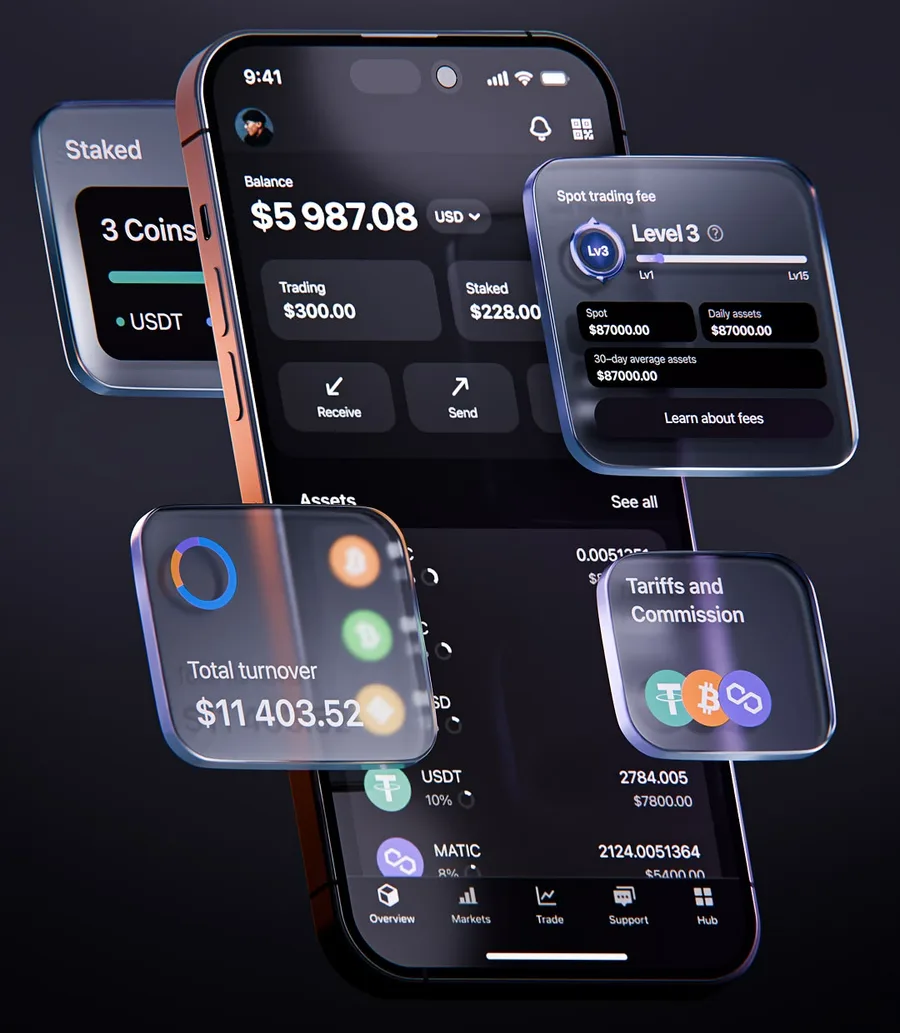
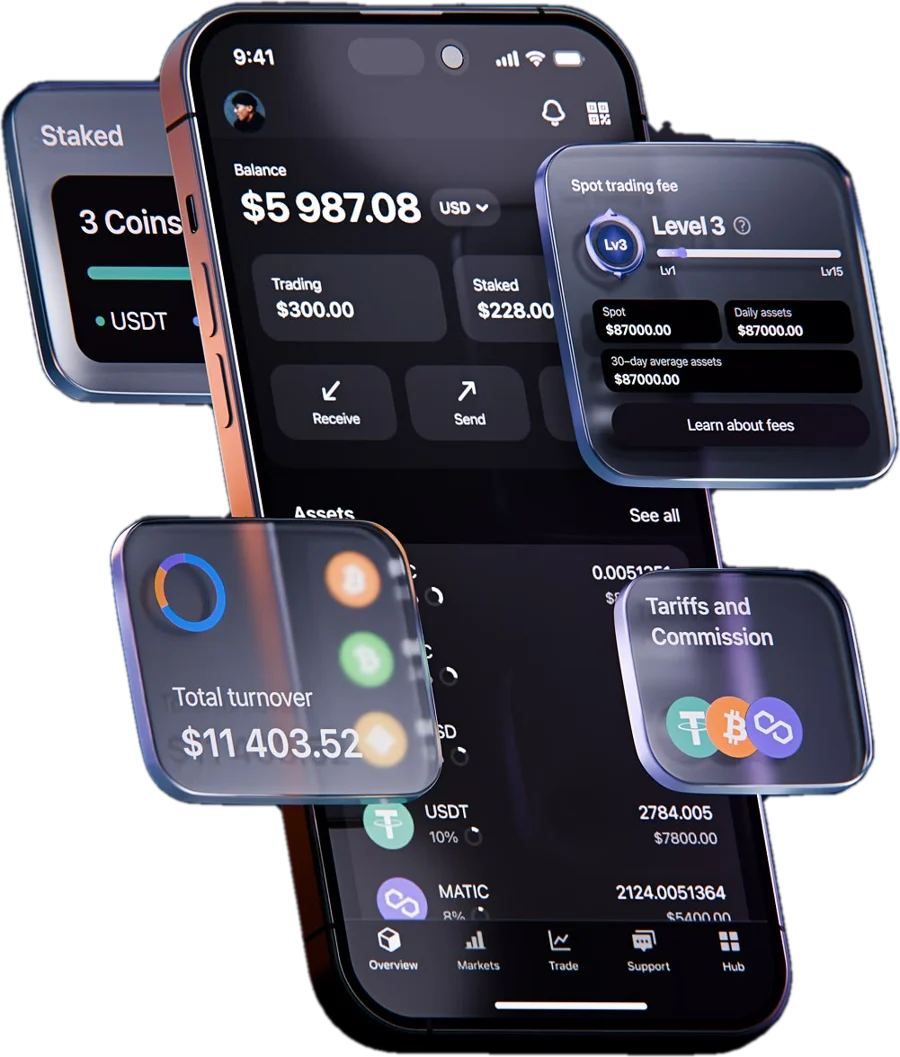
Apps: imagem sem fundo na altura do texto e carrossel do portfólio; sem perguntas frequentes no site

diff --git a/CLAUDE.md b/CLAUDE.md
@@ -26,6 +26,7 @@ Objetivo do site: gerar contatos pelo WhatsApp e pelo formulário.
 - Seção 2 da home (após o carrossel de logos): src/components/SecaoConexao.astro — texto à esquerda no estilo do hero ("Seu negócio, / site e redes / conectados"); à direita ilustração em código: caixa 3D (site em cima, acervo do negócio embaixo: lista, documentos, fotos, gráfico) ligada por linhas de luz animadas a cartões de vidro 3D das redes (Instagram, WhatsApp, Google)
 - Faixa "Invisível não vende." (após a seção 2): src/components/FaixaInvisivel.astro — largura total, laranja escuro, faixa baixa (padding 40px), duas colunas: título + subtítulo; à direita composição de presença local (inspirada em referência, sem copiar): perfil no Google, 2 avaliações de clientes, cartão do site e celular 3D com o perfil e a distribuição das notas. Dados e nomes fictícios
 - Sem linhas/bordas entre seções
+- Sem seção de perguntas frequentes (FAQ) em nenhuma página, pedido do cliente
 - Seção "Por que a MKT Center": src/components/PorQue.astro — título no padrão do site (eyebrow + h2), 6 cards menores numa linha só (3 por linha no tablet, 1 no celular): objeto 3D real em WebGL (Three.js, src/scripts/objetos3d.ts, carregado só quando a seção chega perto da tela): alvo, celular, chat, lupa, gráfico, cavalo de xadrez em metal escuro com detalhes laranja acesos, girando e seguindo o mouse com ondas de luz laranja, número, título, descrição e link
 - Seção "Nossos preços" (após Por que a MKT): src/components/Precos.astro — carrossel numa linha (4 visíveis no computador, 2 no tablet, 1 no celular) com setas e rolagem lateral; 7 cards com selo, "A partir de" + preço, descrição, itens e botão "Falar sobre este plano" (WhatsApp); embaixo "Falar sobre meu projeto" e "Enviar briefing". Valores REAIS informados pelo cliente: Landing R$ 300, Institucional (até 4 págs) R$ 600, Profissional R$ 1.000, Redes R$ 400/mês, Vídeo R$ 50, Post R$ 30/card, Sistemas/Apps sob consulta
 - Depoimentos: src/components/Depoimentos.astro — carrossel minimalista (3 visíveis, setas, arraste), 8 depoimentos FICTÍCIOS (trocar por reais)
@@ -33,8 +34,8 @@ Objetivo do site: gerar contatos pelo WhatsApp e pelo formulário.
 - Página Quem somos: usa o MESMO hero da home (HeroCrescimento.astro com props rotulo/linhas/destaque/texto/bt1/bt2/numeros/rolarPara) com os textos da história desde 2013; o lado direito usa o slot "visual" com src/components/SanfonaEpocas.astro: sanfona de 5 painéis (2013 Lojas, 2016 Redes, 2018 Sites, 2020 Lives, 2026 Apps/IA), abre no hover/toque e avança sozinha; painel aberto mostra a tela animada da época (TelaEra.astro)
 - Página Vídeos (src/pages/videos.astro): hero com EditorVideo.astro (editor em código: prévia 9:16 com cortes, zoom, legendas palavra a palavra, painel de cor e linha do tempo com playhead, tudo em CSS num ciclo de 12 s), tipos (edição R$ 50/vídeo real; anúncios e institucional sob consulta), antes e depois arrastável, 6 técnicas com prévia animada, seção Transmissão ao vivo (#ao-vivo: missas, cultos e eventos; mesa de corte em código com 4 câmeras, AO VIVO, letreiro, chat e redes), incluso, processo e depoimentos
 - Página Redes (src/pages/redes-sociais.astro, menu Redes aponta para ela; /trafego-e-seo/ continua existindo): hero com carrossel dentro de uma moldura branca real de post do Instagram (perfil mktcenterdigital, botão Seguir, curtidas, legenda e hashtags; alinhada à borda direita do .wrap; 5 imagens escolhidas pelo cliente em public/mock/redes-perfil*.webp, setas, arraste, pontos, troca sozinha a cada 4 s; perfis de terceiros: confirmar direito de uso antes do lançamento; PainelRedes.astro, a central animada, fica guardado sem uso), 4 planos com preços reais (R$ 400/mês, R$ 30/card, R$ 50/vídeo, anúncios sob consulta), antes e depois do perfil arrastável, 6 entregas com prévia animada, incluso, processo e depoimentos
-- Página Política (src/pages/marketing-politico.astro): hero com os 4 aparelhos mostrando os sites reais de campanha (Roberto Pires e Padre Kelmon), fases pré-campanha/campanha/mandato (sob consulta), o que fazemos, dentro da lei (TSE, LGPD), campanhas do portfólio (projetos tipo 'Marketing político'), processo e FAQ
-- Página Apps (src/pages/aplicativos-e-sistemas.astro, link Apps no menu depois de Lojas): hero com imagem de estilo escolhida pelo cliente (public/mock/apps-hero.webp, celular com cartões de vidro, bordas esfumadas no fundo), grade dos projetos com tipo Aplicativo/Sistema, o que podemos criar, valor sob consulta, processo e FAQ. Print do Sistema RollerPort veio de imagem do cliente (tem login), fora do robô
+- Página Política (src/pages/marketing-politico.astro): hero com os 4 aparelhos mostrando os sites reais de campanha (Roberto Pires e Padre Kelmon), fases pré-campanha/campanha/mandato (sob consulta), o que fazemos, dentro da lei (TSE, LGPD), projetos políticos do portfólio (tipo com 'político'), processo
+- Página Apps (src/pages/aplicativos-e-sistemas.astro, link Apps no menu depois de Lojas): hero com imagem de estilo escolhida pelo cliente (public/mock/apps-hero.webp, fundo removido, com a mesma altura da coluna de texto), carrossel dos projetos com tipo Aplicativo/Sistema (setas, 4 no computador), o que podemos criar, valor sob consulta e processo. Print do Sistema RollerPort veio de imagem do cliente (tem login), fora do robô
 - Página Portfólio: mesmo hero (HeroCrescimento com prop sites); cada aparelho mostra o print REAL de um site de cliente rolando devagar (public/portfolio/: Kimax no desktop, Pousada Anchieta no notebook, Pugas News no tablet, NanoDev no celular; TelaPrint.astro). Abaixo, grade "Sites que criamos" (3 por linha, 2 no tablet, 1 no celular) com CardPortfolio.astro: FOTO de referência do cliente (notebook + celular, public/portfolio/mockup-note-cel.webp, 368×288 base, recortada com fundo transparente sobre o fundo escuro do card) — não redesenhar os aparelhos; os prints reais (public/portfolio/<site>-lap/-cel.webp) entram nas telas por perspectiva (matrix3d calculado dos cantos medidos) e rolam no hover; lista em `projetos` no topo de portfolio.astro. Prints gerados com puppeteer (1280×800 e 390×844, sem cookies/flutuantes)
 - Menu minimalista (src/components/Header.astro): logo, links em pílula Início · Sobre · Portfólio · Sites · Lojas · Apps · Vídeos (/videos/) · Redes · Política (o ativo ganha contorno arredondado) e botão laranja "Fale conosco ↗" (/contato/). Sem faixa de serviços. Fundo translúcido com desfoque. Celular (< 900px): menu off-canvas
 - Celular: tudo centralizado, margem lateral de 10px, sem nenhuma rolagem horizontal (html/body overflow-x:clip, sem carrosséis)
